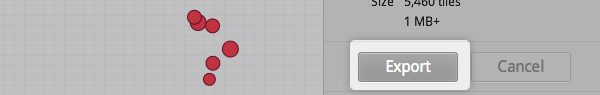
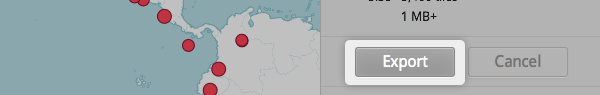
update exporting doc copy & pics

diff --git a/_posts/docs/crashcourse/0202-07-01-exporting.md b/_posts/docs/crashcourse/0202-07-01-exporting.md
@@ -16,34 +16,30 @@ nextup:
 
 {% include prereq.html %}
 
-TileMill can export to MBTiles, PNG, PDF, or SVG. [See here](/tilemill/docs/manual/exporting/) for a brief overview of these formats.
+Once you have your map looking good, it is time to export. TileMill can export to MBTiles, PNG, PDF, or SVG. [See here](/tilemill/docs/manual/exporting/) for a brief overview of these formats.
 
-Before exporting your map it is important to consider its final purpose. What you see in the map preview is exactly what will be rendered. It is possible to temporarily hide layers by **commenting out** their symbolizers.
+Previously, you [created a map of earthquakes](/tilemill/docs/crashcourse/point-data). You will now export that map as an MBTile to create a fully interactive map.
 
-Previously, you [created a map of earthquakes](/tilemill/docs/crashcourse/point-data). We plan on overlaying this on top of an existing base map later, therefore we don't want TileMill to render the default blue and white world map.
-
-1. **Comment out** the background and base map layer by adding `/*` and `*/` before and after their Carto styling, as shown below. You will notice the section between becomes grayed out.
-  ![](/tilemill/assets/pages/exporting-10.png)
-2. Click **Save**. The map background is now transparent and you are ready to export.
-3. Click the **Export** button. A drop down menu will appear.
+1. Click the **Export** button. A drop down menu will appear.
   ![](/tilemill/assets/pages/exporting-1.png)
-4. Click **MBTiles**. The window will transition to the export tool.
+2. Click **MBTiles**. The window will transition to the export tool.
   ![](/tilemill/assets/pages/exporting-2.png)
-5. Choose a **Filename**. The name of the project will be placed here by default.
+3. Choose a **Filename**. The name of the project will be placed here by default.
   ![](/tilemill/assets/pages/exporting-3.png)
-6. Select the map **Bounds**. This is the area of the map to be exported. By default the entire world is selected. If your map is allocated to a smaller region of the globe you can save processing time and disk space by **cropping** to that area. This can be done by manually entering values in the **Bounds** fields, or by holding the SHIFT key and clicking and dragging on the map.
+4. Select the map **Bounds**. This is the area of the map to be exported. By default the entire world is selected. If your map is allocated to a smaller region of the globe you can save processing time and disk space by **cropping** to that area. This can be done by manually entering values in the **Bounds** fields, or by holding the SHIFT key and clicking and dragging on the map.
   ![](/tilemill/assets/pages/exporting-4.png)
-7. Select **Zoom** levels. Set the furthest zoom to 1 by dragging the left end to the right. Set the closest zoom to 6 by dragging the right end to the left.
+5. Select **Zoom** levels. Set the furthest zoom to 1 by dragging the left end to the right. Set the closest zoom to 6 by dragging the right end to the left.
   ![](/tilemill/assets/pages/exporting-5.png)
 You will notice the **Size** numbers update as you do this. These numbers indicate how large the exported file will be. The wider your **bounds** and the more **zoom levels** you have, the larger the final size of the MBTile file will be.
   ![](/tilemill/assets/pages/exporting-6.png)
-8. Click **Export**.
+6. Click **Export**.
   ![](/tilemill/assets/pages/exporting-7.png)
 The window will transition back to your project and the exports panel will appear. Here is where you can access and find information about your exported files. The most recent will appear at the top of the list and display its progress as it is being processed.
   ![](/tilemill/assets/pages/exporting-8.png)
-9. When the export process is complete, the progress bar will be replaced by **Upload** and **Save** buttons. **Upload** allows you to directly upload the map to TileStream, while **Save** will save a copy of the file locally to a specified location.
+7. When the export process is complete, the progress bar will be replaced by **Upload** and **Save** buttons. **Upload** allows you to directly upload the map to [MapBox](/tour/hosting/), while **Save** will save a copy of the file locally to a specified location.
   ![](/tilemill/assets/pages/exporting-9.png)
 
-### Congragulations!
+### Congragulations!  
+You have completed your first map in TileMill! Take advantage of our **free 7-day hosting** on MapBox by clicking **Upload**.
 
 {% include nextup.html %}
